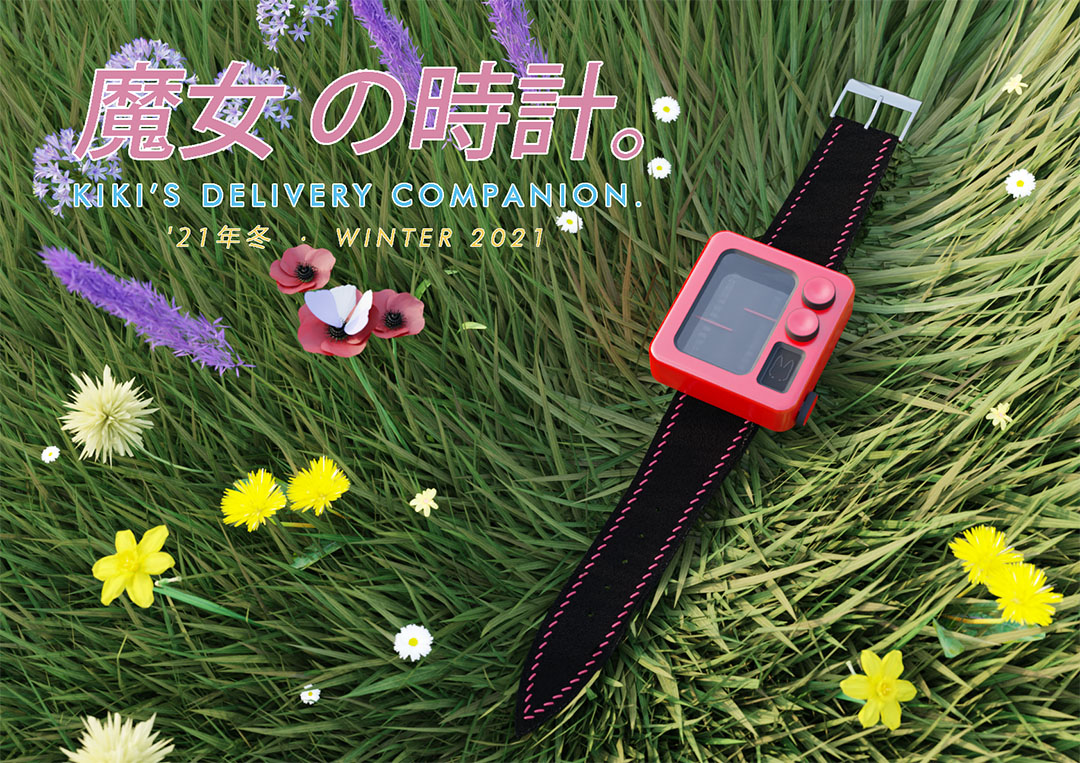
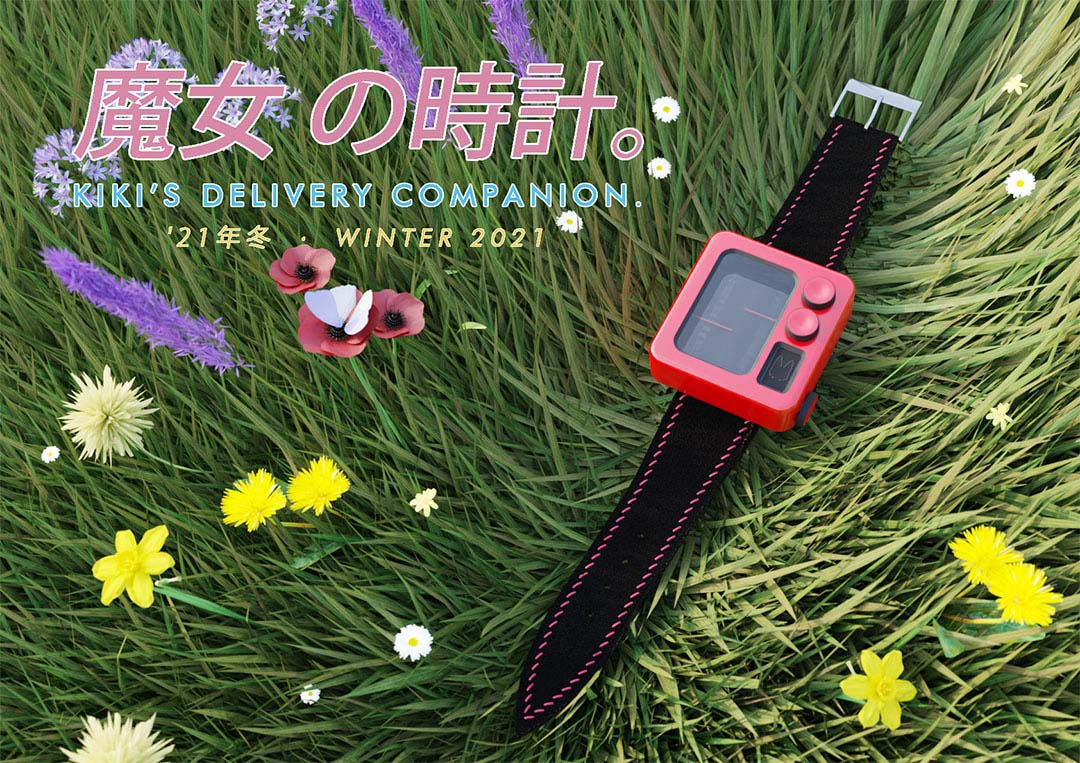
image optimisation

diff --git a/smarterWatch.html b/smarterWatch.html
@@ -138,7 +138,7 @@
 
 <div class="row">
   <div class="col-12">
-    <img src="photos/KikiWatch/seagullsmist3.png">
+    <img src="photos/KikiWatch/seagullsmist3.jpg">
   </div>
 </div>
 
